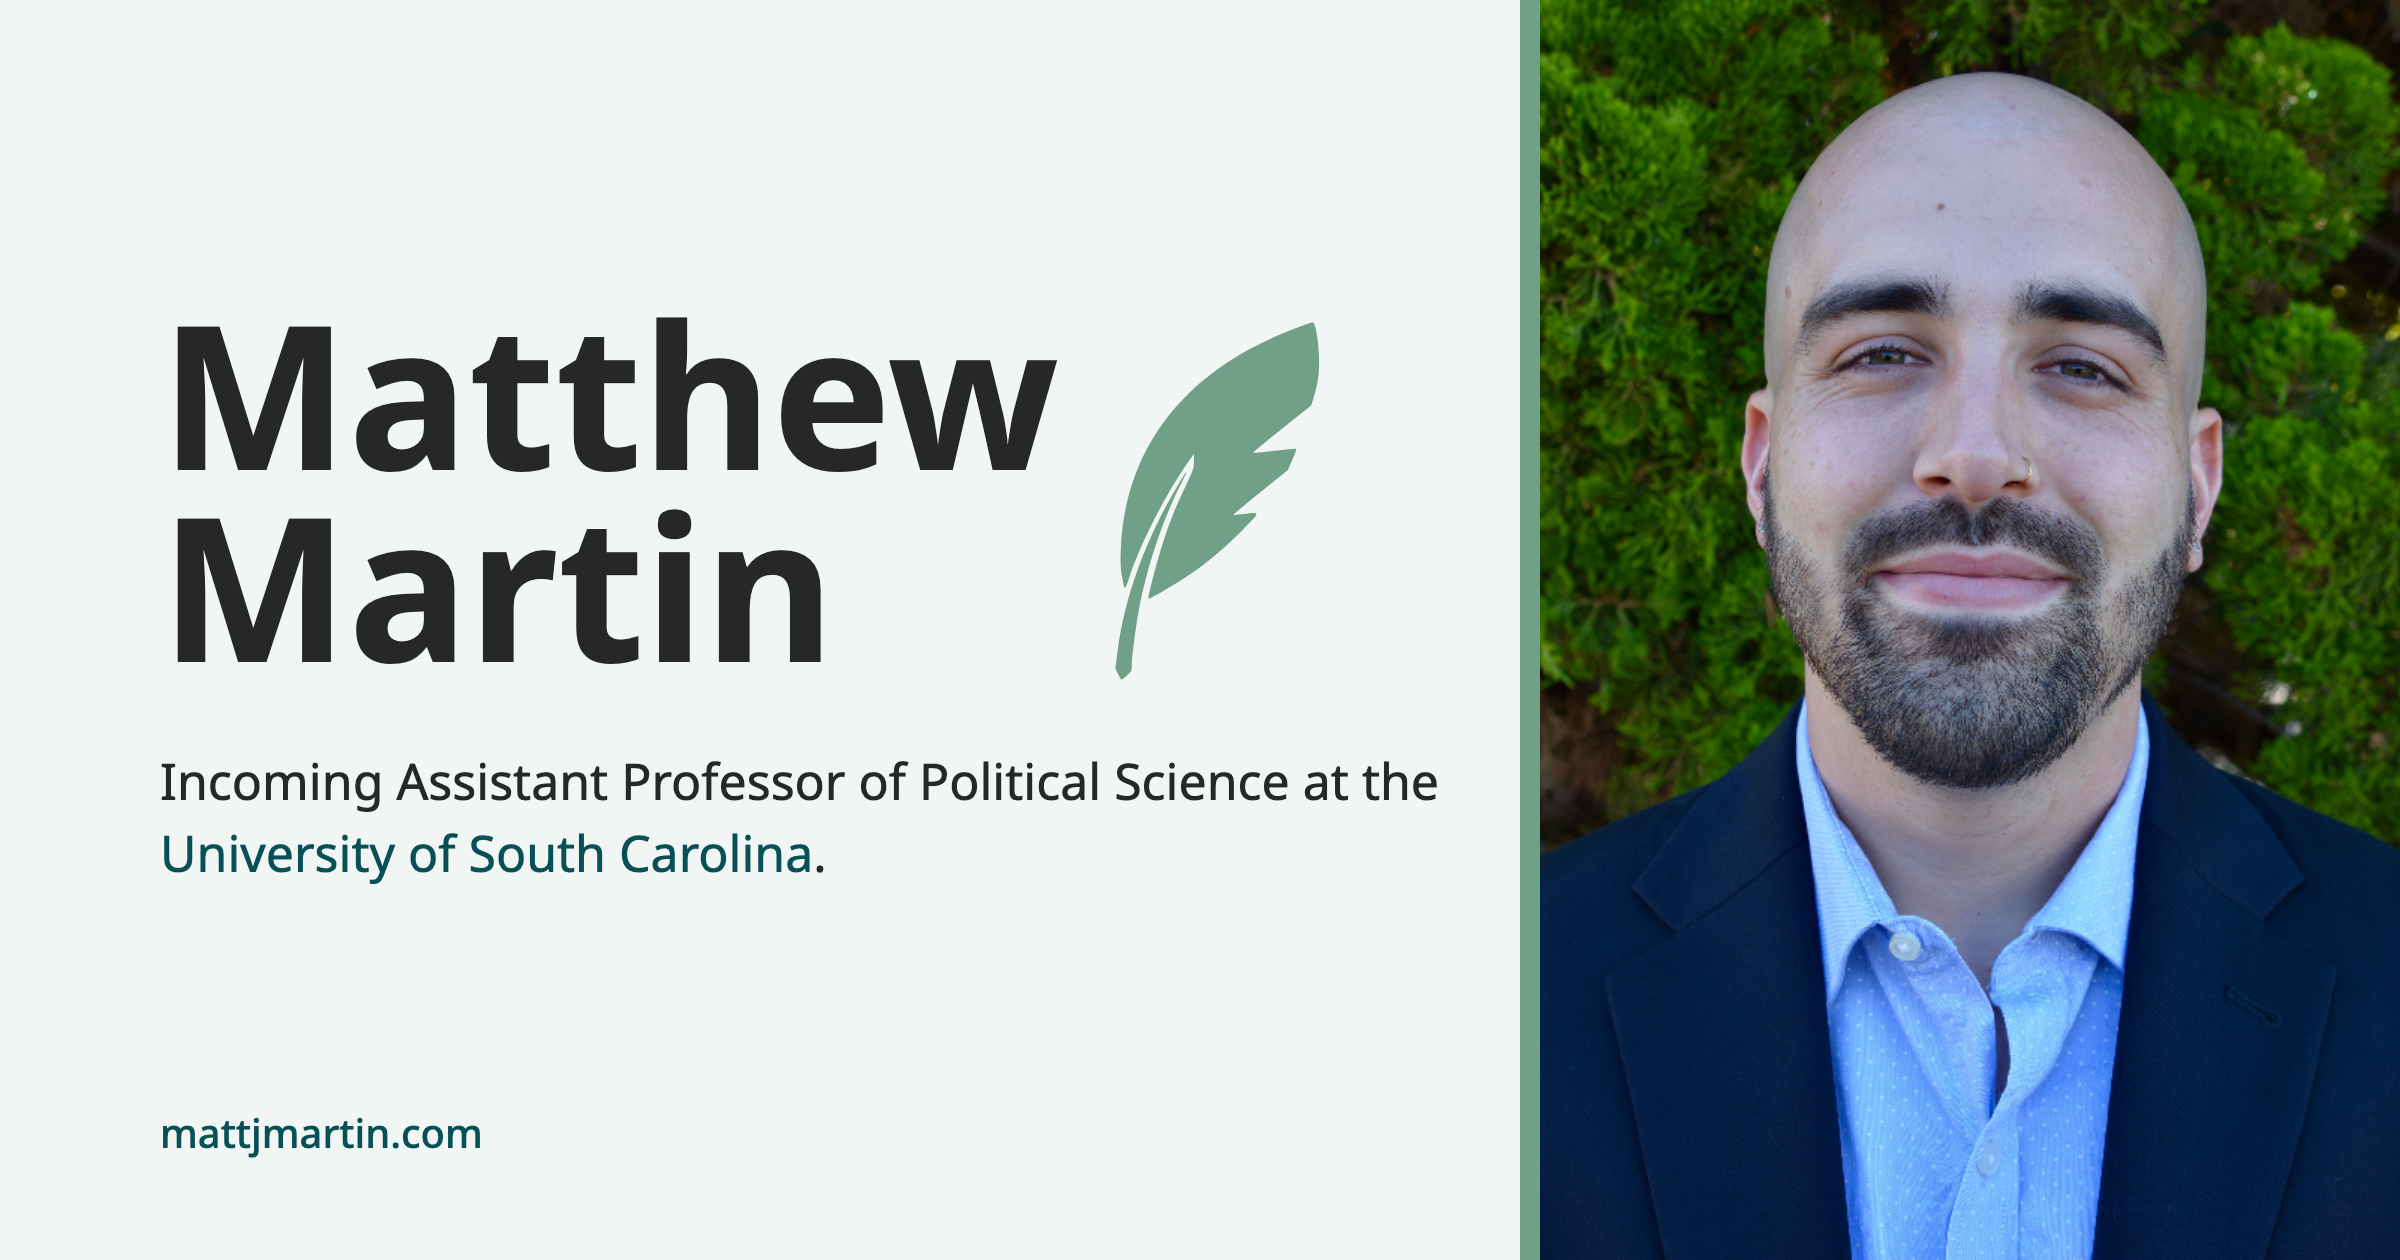
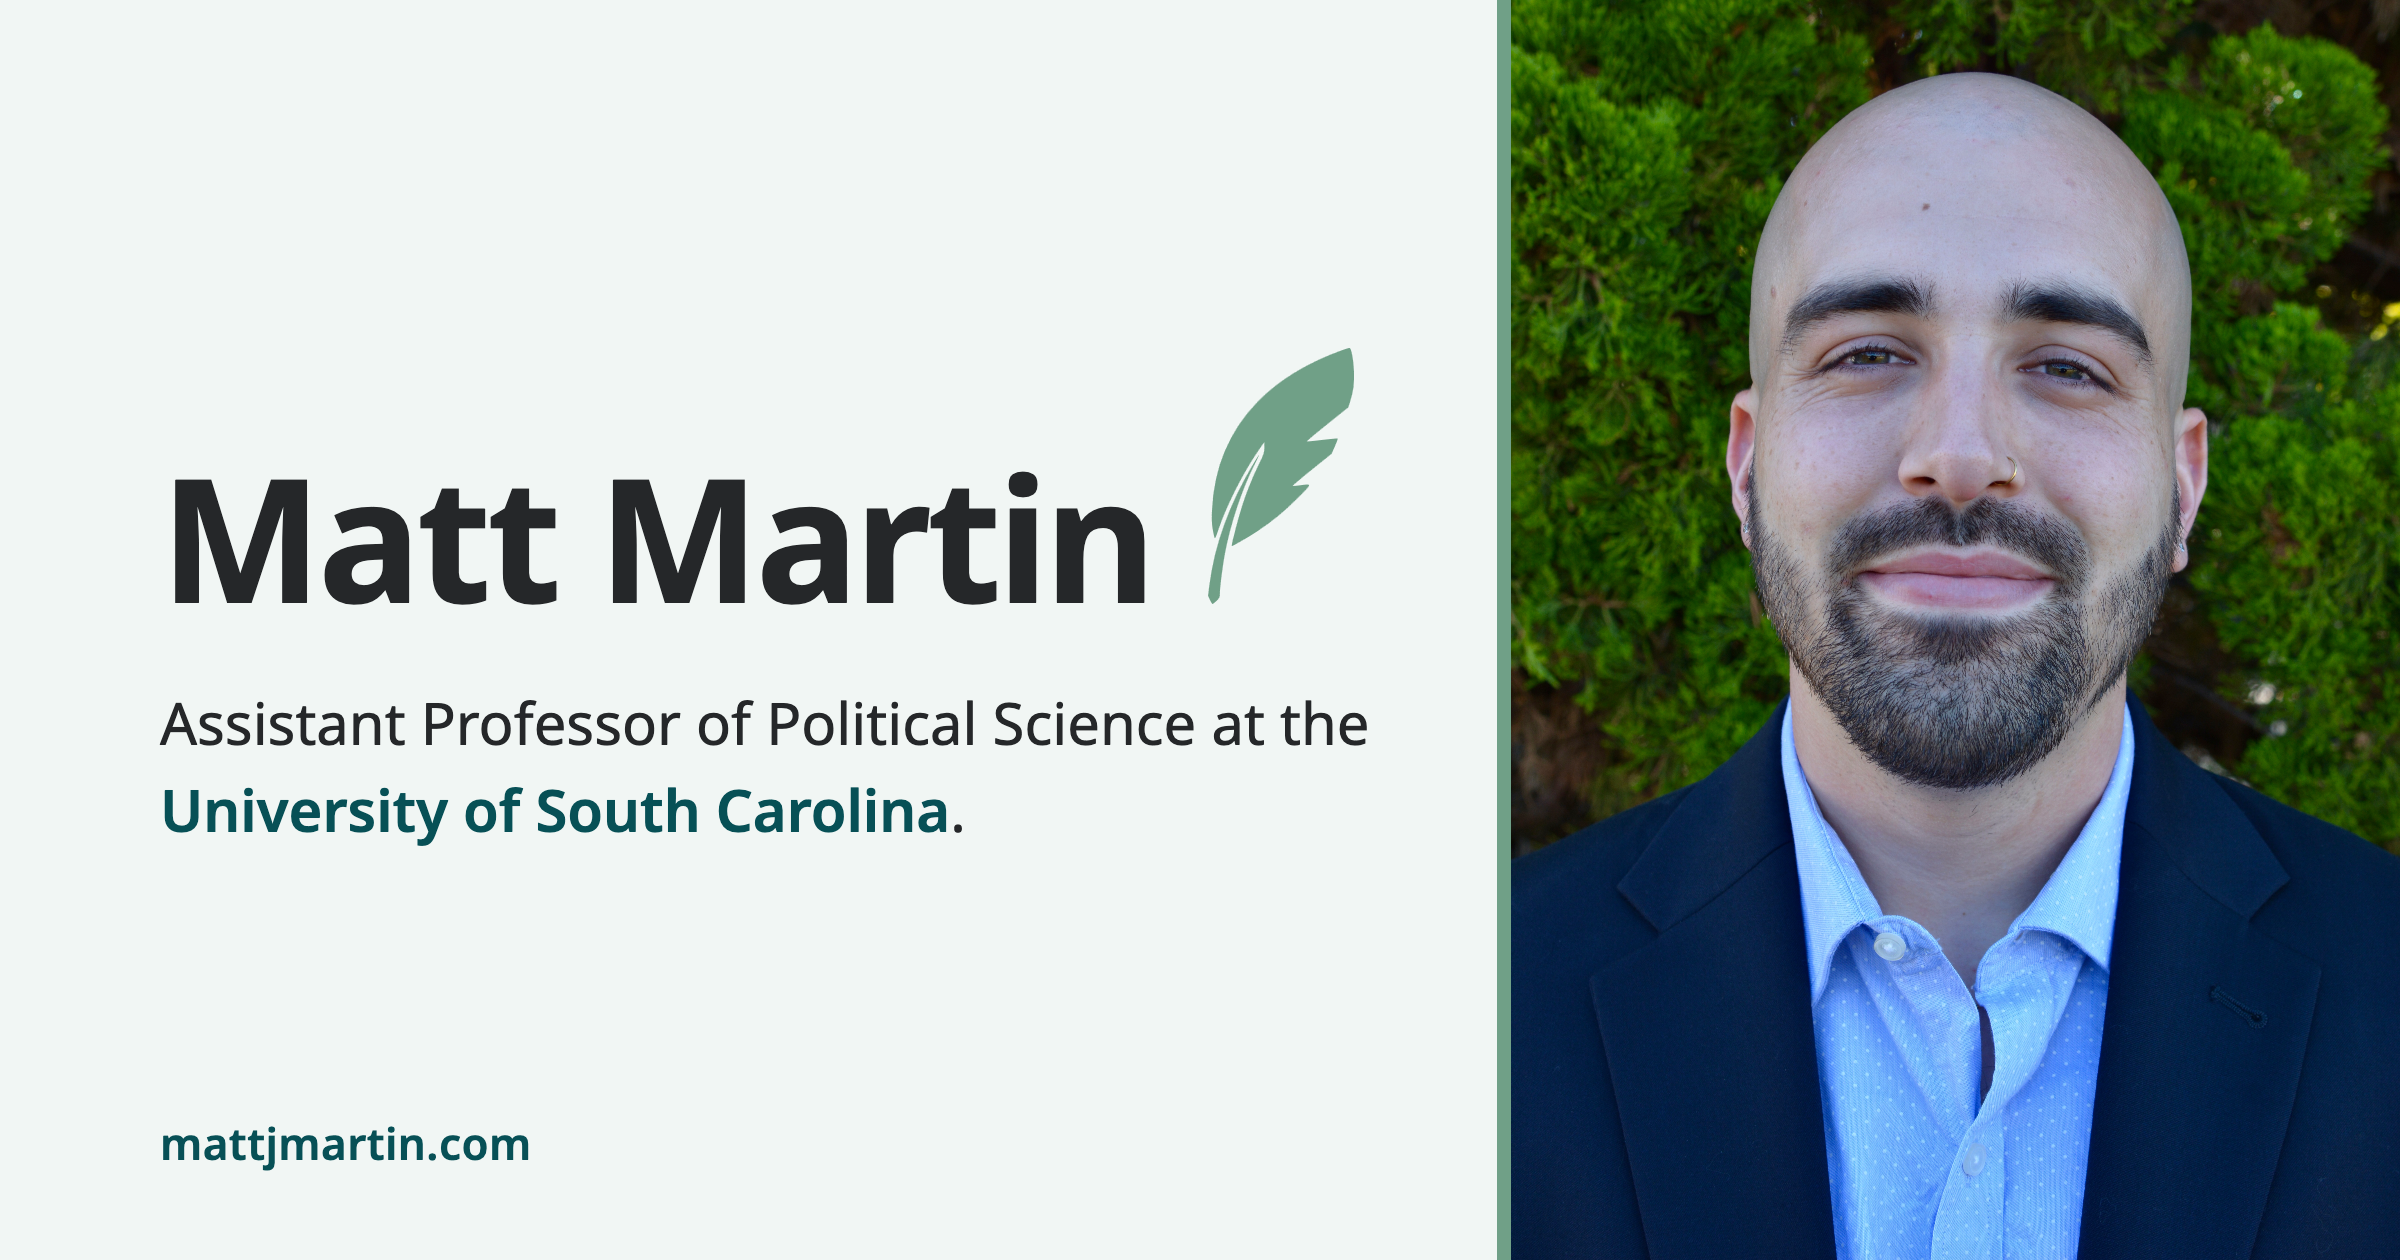
social card

diff --git a/docs/research/index.html b/docs/research/index.html
@@ -1332,7 +1332,7 @@ View the source on <a href="https://github.com/mattjamesmartin/mattjamesmartin.g
 Set in <a href="https://fonts.google.com/specimen/Noto+Sans">Noto Sans</a>
 </p>
 <p>
-Last revised August 23, 2026
+Last revised August 25, 2026
 </p>
 </div>
   </div>

diff --git a/docs/404.html b/docs/404.html
@@ -625,7 +625,7 @@ View the source on <a href="https://github.com/mattjamesmartin/mattjamesmartin.g
 Set in <a href="https://fonts.google.com/specimen/Noto+Sans">Noto Sans</a>
 </p>
 <p>
-Last revised August 23, 2026
+Last revised August 25, 2026
 </p>
 </div>
   </div>

diff --git a/docs/blog/index.html b/docs/blog/index.html
@@ -876,7 +876,7 @@ View the source on <a href="https://github.com/mattjamesmartin/mattjamesmartin.g
 Set in <a href="https://fonts.google.com/specimen/Noto+Sans">Noto Sans</a>
 </p>
 <p>
-Last revised August 23, 2026
+Last revised August 25, 2026
 </p>
 </div>
   </div>

diff --git a/docs/blog/posts/cuba-on-my-mind/index.html b/docs/blog/posts/cuba-on-my-mind/index.html
@@ -649,7 +649,7 @@ View the source on <a href="https://github.com/mattjamesmartin/mattjamesmartin.g
 Set in <a href="https://fonts.google.com/specimen/Noto+Sans">Noto Sans</a>
 </p>
 <p>
-Last revised August 23, 2026
+Last revised August 25, 2026
 </p>
 </div>
   </div>

diff --git a/docs/blog/posts/goodbye-seattle/index.html b/docs/blog/posts/goodbye-seattle/index.html
@@ -656,7 +656,7 @@ View the source on <a href="https://github.com/mattjamesmartin/mattjamesmartin.g
 Set in <a href="https://fonts.google.com/specimen/Noto+Sans">Noto Sans</a>
 </p>
 <p>
-Last revised August 23, 2026
+Last revised August 25, 2026
 </p>
 </div>
   </div>

diff --git a/docs/blog/posts/immigration-courts-and-abolition/index.html b/docs/blog/posts/immigration-courts-and-abolition/index.html
@@ -643,7 +643,7 @@ View the source on <a href="https://github.com/mattjamesmartin/mattjamesmartin.g
 Set in <a href="https://fonts.google.com/specimen/Noto+Sans">Noto Sans</a>
 </p>
 <p>
-Last revised August 23, 2026
+Last revised August 25, 2026
 </p>
 </div>
   </div>

diff --git a/docs/blog/posts/reimagining-patriotism-according-to-my-father/index.html b/docs/blog/posts/reimagining-patriotism-according-to-my-father/index.html
@@ -655,7 +655,7 @@ View the source on <a href="https://github.com/mattjamesmartin/mattjamesmartin.g
 Set in <a href="https://fonts.google.com/specimen/Noto+Sans">Noto Sans</a>
 </p>
 <p>
-Last revised August 23, 2026
+Last revised August 25, 2026
 </p>
 </div>
   </div>

diff --git a/docs/blog/posts/reintroducing-friction/index.html b/docs/blog/posts/reintroducing-friction/index.html
@@ -678,7 +678,7 @@ View the source on <a href="https://github.com/mattjamesmartin/mattjamesmartin.g
 Set in <a href="https://fonts.google.com/specimen/Noto+Sans">Noto Sans</a>
 </p>
 <p>
-Last revised August 23, 2026
+Last revised August 25, 2026
 </p>
 </div>
   </div>

diff --git a/docs/blog/posts/the-art-of-never-being-satisfied/index.html b/docs/blog/posts/the-art-of-never-being-satisfied/index.html
@@ -695,7 +695,7 @@ View the source on <a href="https://github.com/mattjamesmartin/mattjamesmartin.g
 Set in <a href="https://fonts.google.com/specimen/Noto+Sans">Noto Sans</a>
 </p>
 <p>
-Last revised August 23, 2026
+Last revised August 25, 2026
 </p>
 </div>
   </div>

diff --git a/docs/blog/posts/writing-with-ocd/index.html b/docs/blog/posts/writing-with-ocd/index.html
@@ -638,7 +638,7 @@ View the source on <a href="https://github.com/mattjamesmartin/mattjamesmartin.g
 Set in <a href="https://fonts.google.com/specimen/Noto+Sans">Noto Sans</a>
 </p>
 <p>
-Last revised August 23, 2026
+Last revised August 25, 2026
 </p>
 </div>
   </div>

diff --git a/docs/cv/index.html b/docs/cv/index.html
@@ -654,7 +654,7 @@ View the source on <a href="https://github.com/mattjamesmartin/mattjamesmartin.g
 Set in <a href="https://fonts.google.com/specimen/Noto+Sans">Noto Sans</a>
 </p>
 <p>
-Last revised August 23, 2026
+Last revised August 25, 2026
 </p>
 </div>
   </div>

diff --git a/docs/index.html b/docs/index.html
@@ -750,7 +750,7 @@ View the source on <a href="https://github.com/mattjamesmartin/mattjamesmartin.g
 Set in <a href="https://fonts.google.com/specimen/Noto+Sans">Noto Sans</a>
 </p>
 <p>
-Last revised August 23, 2026
+Last revised August 25, 2026
 </p>
 </div>
   </div>
